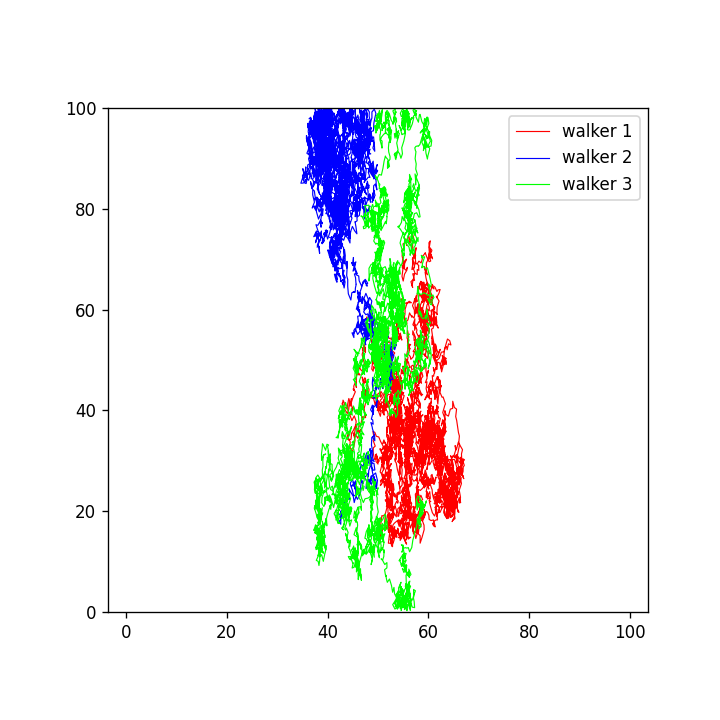
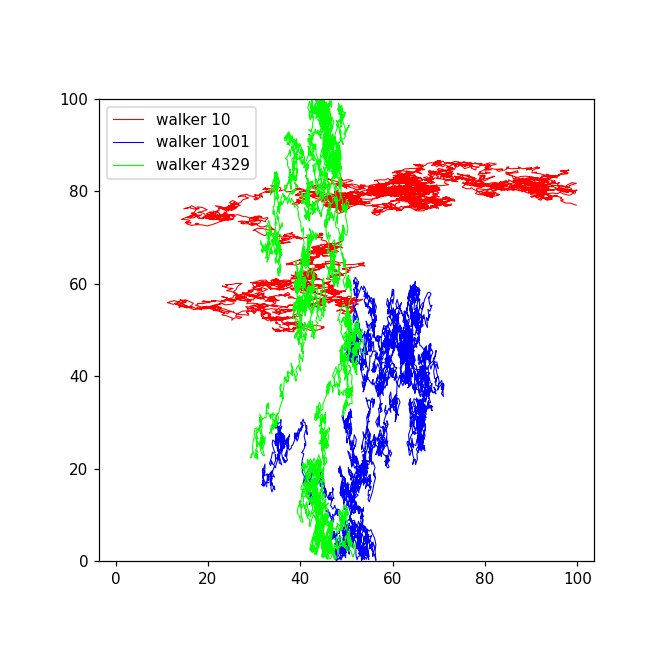
Add files via upload

diff --git a/Vjez2/Z2a.py b/Vjez2/Z2a.py
@@ -1,14 +1,20 @@
 import numpy as np
 import matplotlib.pyplot as plt
 
-Nw = 3 #broj setaca
+Nw = 5000 #broj setaca
 Nk = 5000 #broj koraka
 walkers = np.zeros((Nw, 2))
 '''
-with open('r3w.txt', 'w') as wr:
-    for w in range(Nw):
+with open('rNw.txt', 'w') as wr:
+    sen = ""
+    for w in range(Nw): #pocetne pozicije
         walkers[w, 0], walkers[w, 1] = 40.0+20.0*np.random.rand(), 15.0+10.0*np.random.rand()
-        for k in range(1, Nk+1):
+        sen += f"%12.6f %12.6f" %(walkers[w, 0], walkers[w, 1]) 
+    sen += "\n"
+    wr.write(sen) #zapisivanje pocetnih pozicija
+    for k in range(Nk-1):
+        lin = ""
+        for w in range(Nw):
             dx, dy = -0.5+np.random.rand(), -1.5+3.0*np.random.rand()
             walkers[w, 0] += dx
             walkers[w, 1] += dy
@@ -16,35 +22,35 @@ with open('r3w.txt', 'w') as wr:
                 walkers[w, 0] -= 2*dx
             if walkers[w, 1] < 0.0 or walkers[w, 1] > 100.0:
                 walkers[w, 1] -= 2*dy
-            lin = f"{walkers[w, 0]}\t{walkers[w, 1]}\n"
-            wr.write(lin)
-        wr.write("\n")
+            lin += f"%12.6f %12.6f" %(walkers[w, 0], walkers[w, 1])
+        lin += "\n"
+        wr.write(lin) #zapisivanje koraka
     wr.close()
 '''
-with open('r3w.txt', 'r') as re:
+with open('rNw.txt', 'r') as re:
+    W = [10, 1001, 4329] #redni broj setaca koji se plota
     R = re.readlines()
     X1, Y1, X2, Y2, X3, Y3 = [], [], [], [], [], []
-    for o in range(len(R)):
-        if o < Nk:
-            valx, valy = R[o].strip().split()
-            X1.append(float(valx))
-            Y1.append(float(valy))
-        elif o >= Nk+1 and o <= 2*Nk:
-            valx, valy = R[o].strip().split()
-            X2.append(float(valx))
-            Y2.append(float(valy))
-        elif o > 2*Nk+1 and o <= 3*Nk+1:
-            valx, valy = R[o].strip().split()
-            X3.append(float(valx))
-            Y3.append(float(valy))
-            
-fig = plt.figure(figsize=(6,6), dpi=120)
+    for l in range(len(R)):
+        val = R[l].strip().split()
+        for i in range(len(val)):
+            if i == int(W[0]-1):
+                X1.append(float(val[i]))
+                Y1.append(float(val[i+1]))
+            elif i == int(W[1]-1):
+                X2.append(float(val[i]))
+                Y2.append(float(val[i+1]))
+            elif i == int(W[2]-1):
+                X3.append(float(val[i]))
+                Y3.append(float(val[i+1]))
+                           
+fig = plt.figure(figsize=(6,6), dpi=110)
 axes = fig.add_axes([0.15, 0.15, 0.75, 0.70])
 plt.rcParams.update({'font.size': 10}) #type: ignore
 plt.axis('equal')
-axes.plot(X1, Y1, color='red', lw=0.7, label='walker 1')
-axes.plot(X2, Y2, color='blue', lw=0.7, label='walker 2')
-axes.plot(X3, Y3, color='lime', lw=0.7, label='walker 3')
+axes.plot(X1, Y1, color='red', lw=0.7, label='walker {}'.format(W[0]))
+axes.plot(X2, Y2, color='blue', lw=0.7, label='walker {}'.format(W[1]))
+axes.plot(X3, Y3, color='lime', lw=0.7, label='walker {}'.format(W[2]))
 axes.legend()
 axes.set_xlim(0.0, 100.0)
 axes.set_ylim(0.0, 100.0)
